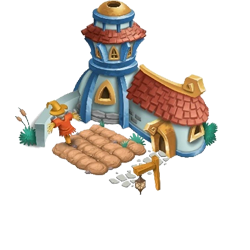
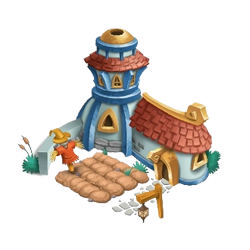
Update building layer sort method + Add asset to samsung and sony farm

diff --git a/Assets/Scripts/Scenes/Home/Home_SceneManager.cs b/Assets/Scripts/Scenes/Home/Home_SceneManager.cs
@@ -207,10 +207,27 @@ namespace MonsterLegendsLite {
         }
 
         private void SortAllBuildings() {
-            var order     = short.MinValue; // For visual order
-            var zPos      = 1f;             // For click cast order
-            var zPosDelta = 1f / IEBuildings().Count();
-            foreach (var building in IEBuildings().OrderBy(static i => -i.TF.position.y)) {
+            var order        = short.MinValue; // For visual order
+            var zPos         = 1f;             // For click cast order
+            var allBuildings = IEBuildings().ToList();
+            var zPosDelta    = 1f / allBuildings.Count;
+
+            allBuildings.Sort(static (a, b) => {
+                var pA = a.InsDataWeak.Position;
+                var pB = b.InsDataWeak.Position;
+                var sA = DataManager.Ins.GetBuildingDefData(a.InsDataWeak).Size;
+                var sB = DataManager.Ins.GetBuildingDefData(b.InsDataWeak).Size;
+
+                bool aInFront = pA.x + sA.x <= pB.x || pA.y + sA.y <= pB.y;
+                bool bInFront = pB.x + sB.x <= pA.x || pB.y + sB.y <= pA.y;
+
+                if (aInFront && !bInFront) return 1;
+                if (bInFront && !aInFront) return -1;
+
+                return pB.x.CompareTo(pA.x);
+            });
+
+            foreach (var building in allBuildings) {
                 building.SetIdleSortingOrder(order++);
                 utils.SetPosition(building.TF, UtilFuncs.VecAxis.Z, zPos -= zPosDelta);
             }

diff --git a/Assets/Scripts/Scenes/Home/Instances/Buildings/Home_Building.cs b/Assets/Scripts/Scenes/Home/Instances/Buildings/Home_Building.cs
@@ -60,8 +60,6 @@ namespace MonsterLegendsLite {
 
             SetVisibleValidPlace(false);
             
-            CheckAndUpdateCollectBtnActive();
-
             if (isBuySample) {
                 OnSelect();
                 isPntMoved = true;
@@ -112,7 +110,8 @@ namespace MonsterLegendsLite {
         }
 
         private void CheckAndUpdateCollectBtnActive() {
-            isActiveCollectBtn = IsShouldCollectBtnActive(out var sprite);
+            var sprite = default(Sprite);
+            isActiveCollectBtn = isBuySample ? false : IsShouldCollectBtnActive(out sprite);
             SharedData.collectBtn.SetActive(isActiveCollectBtn);
             if (sprite != null) SharedData.collectBtn.SetIcon(sprite);
         }